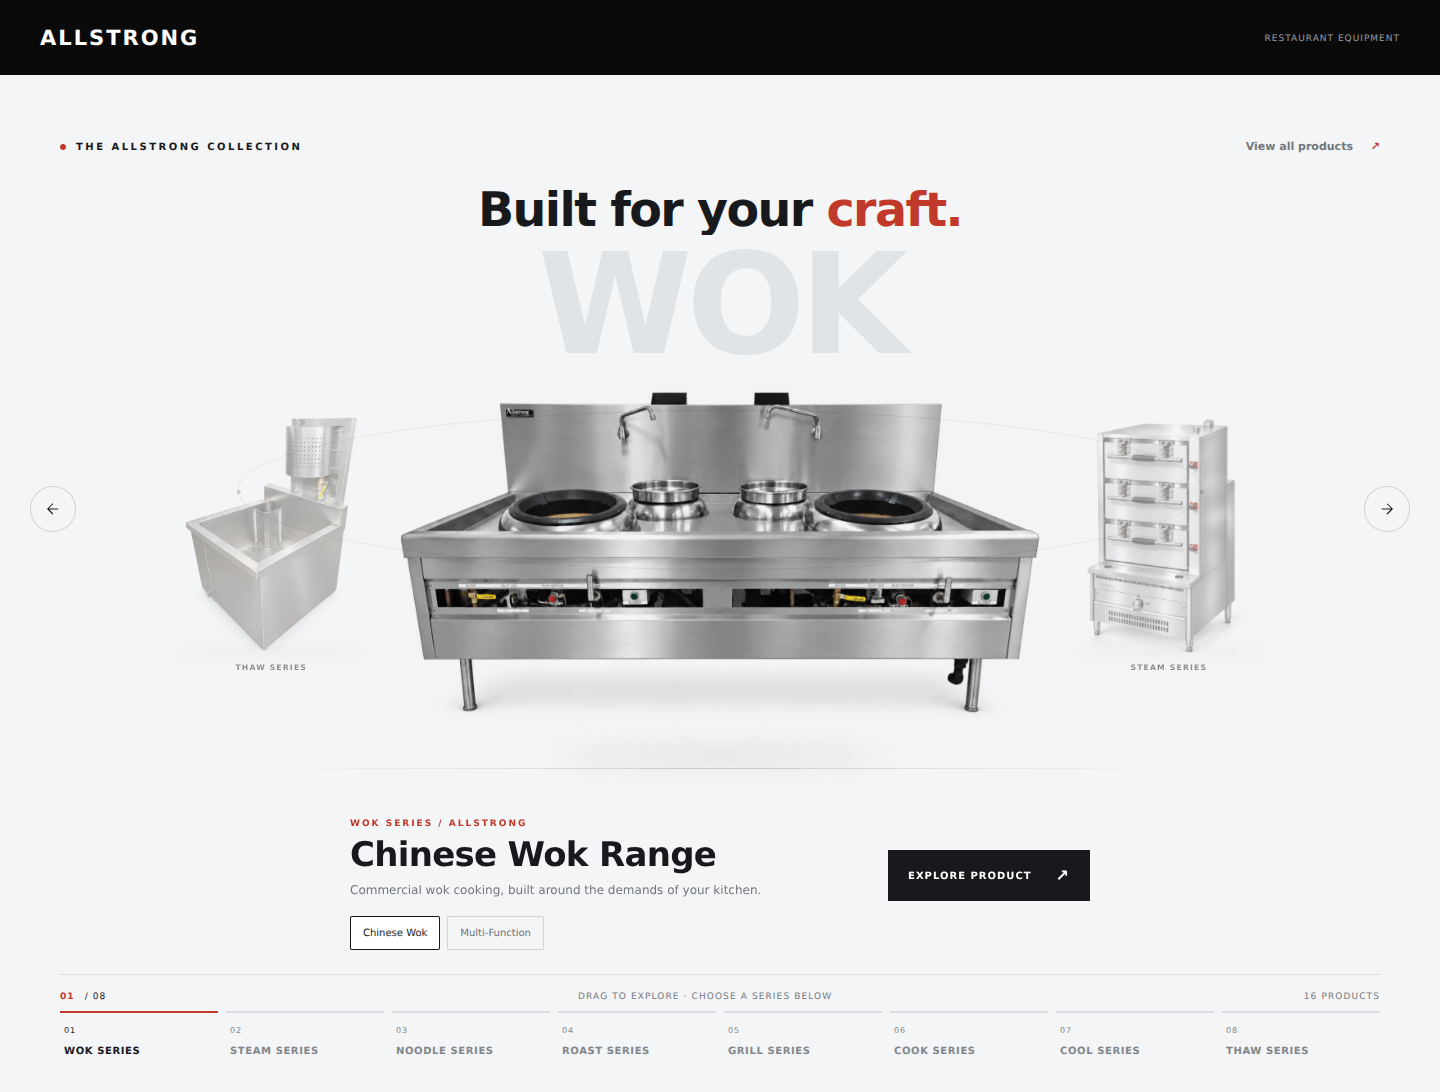
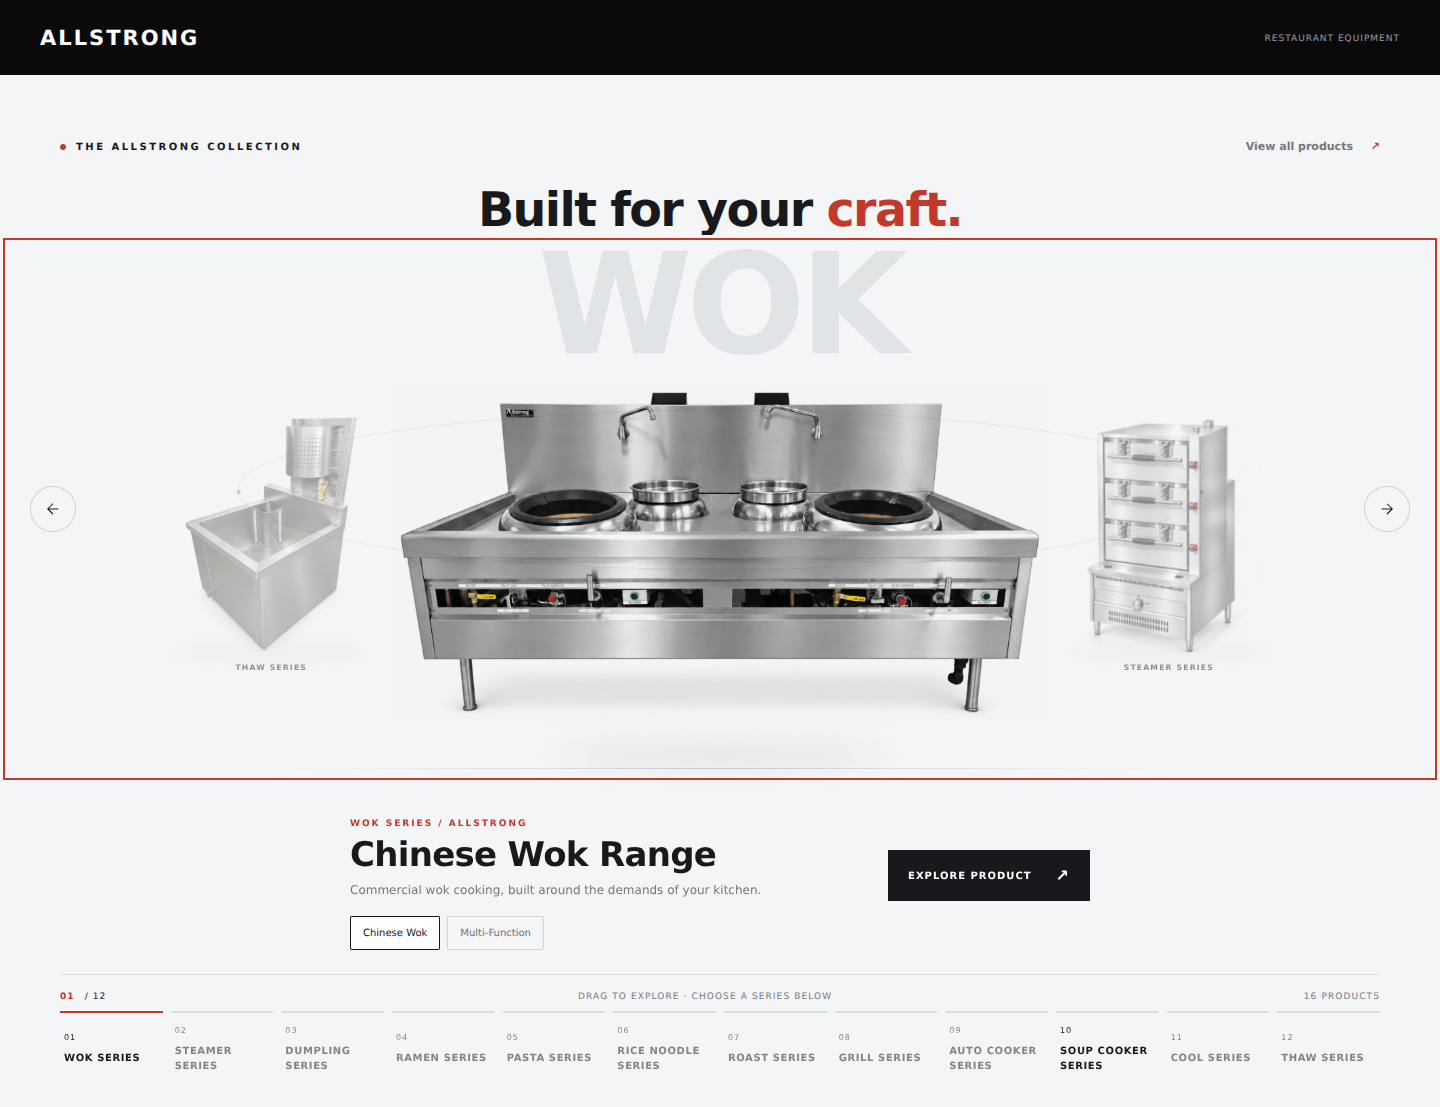
Separate equipment series and rename Auto and Soup Cookers

diff --git a/allstrong-website-final-v5/series-showcase.js b/allstrong-website-final-v5/series-showcase.js
@@ -8,14 +8,20 @@
       product('Chinese Wok Range','wok-range.webp','chinese-wok-range.html','Commercial wok cooking, built around the demands of your kitchen.','Chinese Wok'),
       product('Multi-Function Wok Range','multi-function-wok-range.webp','multi-function-wok-range.html','Explore the wok station at the heart of the Multi-Function range.','Multi-Function')
     ]},
-    {name:'Steam', word:'STEAM', products:[
-      product('Steamer Cabinet','steamer-cabinets.webp','steamer-cabinets.html','A dedicated steaming configuration for a commercial kitchen.','Steamer Cabinet'),
+    {name:'Steamer', word:'STEAM', products:[
+      product('Steamer Cabinet','steamer-cabinets.webp','steamer-cabinets.html','A dedicated steaming configuration for a commercial kitchen.','Steamer Cabinet')
+    ]},
+    {name:'Dumpling', word:'DUMPLING', products:[
       product('Dumpling Range — 4 Holes','dumpling-range-4.webp','dumpling-range-4.html','Explore the four-hole dumpling range configuration.','4-Hole Dumpling'),
       product('Dumpling Range — 7 Holes','dumpling-range-7.webp','dumpling-range-7.html','Explore the seven-hole dumpling range configuration.','7-Hole Dumpling')
     ]},
-    {name:'Noodle', word:'NOODLE', products:[
-      product('Ramen Range','ramen-range.webp','ramen-range.html','A purpose-built station for your ramen service.','Ramen'),
-      product('Pasta Cooker','noodle-pasta-broiler.webp','noodle-pasta-broiler.html','Explore a dedicated pasta cooking configuration.','Pasta'),
+    {name:'Ramen', word:'RAMEN', products:[
+      product('Ramen Range','ramen-range.webp','ramen-range.html','A purpose-built station for your ramen service.','Ramen')
+    ]},
+    {name:'Pasta', word:'PASTA', products:[
+      product('Pasta Cooker','noodle-pasta-broiler.webp','noodle-pasta-broiler.html','Explore a dedicated pasta cooking configuration.','Pasta')
+    ]},
+    {name:'Rice Noodle', word:'RICE NOODLE', products:[
       product('Rice Noodle Range','rice-noodle-range.webp','rice-noodle-range.html','A steaming station designed for rice noodle preparation.','Rice Noodle')
     ]},
     {name:'Roast', word:'ROAST', products:[
@@ -26,9 +32,11 @@
     {name:'Grill', word:'GRILL', products:[
       product('Mongolian BBQ Range','mongolian-bbq-range.webp','mongolian-bbq-range.html','A circular cooking surface for Mongolian barbecue service.')
     ]},
-    {name:'Cook', word:'COOK', products:[
-      product('Automatic Rotary Cooker','auto-cooker.webp','auto-cooker.html','Explore Allstrong automatic rotary cooking equipment.','Rotary Cooker'),
-      product('Kettle Cooker','kettle-cooker.webp','kettle-cooker.html','Explore the kettle cooking configuration.','Kettle Cooker')
+    {name:'Auto Cooker', word:'AUTO COOKER', products:[
+      product('Auto Cooker','auto-cooker.webp','auto-cooker.html','Explore Allstrong automatic cooking equipment.')
+    ]},
+    {name:'Soup Cooker', word:'SOUP COOKER', products:[
+      product('Soup Cooker','kettle-cooker.webp','kettle-cooker.html','Explore Allstrong soup cooking equipment.')
     ]},
     {name:'Cool', word:'COOL', products:[
       product('Air Cooler','air-cooler.webp','air-cooler.html','Explore the Allstrong air cooler cabinet.')
@@ -43,6 +51,9 @@
   const variants = root.querySelector('.ss-variants');
   const nav = root.querySelector('.ss-nav');
   const status = root.querySelector('.ss-live');
+  root.style.setProperty('--ss-series-count', series.length);
+  root.querySelector('.ss-total').textContent = String(series.length).padStart(2,'0');
+  root.querySelector('.ss-product-count').textContent = `${series.reduce((count,s)=>count+s.products.length,0)} Products`;
   const motion = window.matchMedia('(prefers-reduced-motion: reduce)');
   let selected = 0, variant = 0, pointer = null, suppressClick = false;
   const items = series.map((s,i) => {
@@ -81,7 +92,7 @@
       tabs[i].setAttribute('aria-pressed',i===selected?'true':'false');
     });
     if(word.textContent!==s.word) {
-      word.textContent=s.word; word.classList.remove('is-arriving'); void word.offsetWidth; word.classList.add('is-arriving');
+      word.textContent=s.word; word.dataset.long=String(s.word.length>7); word.classList.remove('is-arriving'); void word.offsetWidth; word.classList.add('is-arriving');
     }
     details.querySelector('.ss-category').textContent=`${s.name} Series / Allstrong`;
     details.querySelector('.ss-name').textContent=p.name;

diff --git a/allstrong-website-final-v5/series-showcase.css b/allstrong-website-final-v5/series-showcase.css
@@ -18,6 +18,7 @@
 .ss-deck.is-dragging { cursor: grabbing; }
 .ss-deck:focus-visible { outline: 2px solid var(--ss-red); outline-offset: -5px; }
 .ss-word { position: absolute; top: 0; left: 0; width: 100%; text-align: center; color: #e1e4e7; font-size: clamp(75px, 10vw, 140px); font-weight: 900; letter-spacing: -6px; line-height: 1; white-space: nowrap; pointer-events: none; z-index: -1; }
+.ss-word[data-long="true"] { font-size: clamp(48px, 7vw, 100px); letter-spacing: -4px; padding-top: 15px; }
 .ss-word.is-arriving { animation: ss-word-in .65s ease both; }
 .ss-guide { position: absolute; top: 32%; left: 50%; width: 67%; height: 160px; border: 1px solid #e3e5e7; border-radius: 50%; transform: translateX(-50%); pointer-events: none; z-index: -1; }
 .ss-guide::before, .ss-guide::after { content: ""; position: absolute; background: #c7cacf; width: 4px; height: 4px; border-radius: 50%; top: 50%; }
@@ -48,7 +49,7 @@
 .ss-bottom { border-top: 1px solid #d9dde1; }
 .ss-index { display: flex; gap: 8px; align-items: center; justify-content: space-between; padding: 16px 0 10px; color: var(--ss-muted); font-size: 9px; letter-spacing: 1.1px; text-transform: uppercase; }
 .ss-counter { color: var(--ss-ink); font-variant-numeric: tabular-nums; }.ss-counter strong { color: var(--ss-red); margin-right: 6px; }
-.ss-nav { display: grid; grid-template-columns: repeat(8,minmax(0,1fr)); gap: 8px; }
+.ss-nav { display: grid; grid-template-columns: repeat(var(--ss-series-count,12),minmax(0,1fr)); gap: 8px; }
 .ss-series-btn { position: relative; background: transparent; border: 0; padding: 13px 4px 5px; border-top: 2px solid #d9dde1; text-align: left; color: #81868c; font-family: inherit; cursor: pointer; transition: color .2s,border-color .2s; }
 .ss-series-btn small { display: block; font-size: 8px; letter-spacing: 1px; margin-bottom: 7px; }
 .ss-series-btn span { font-size: 10px; font-weight: 700; letter-spacing: .6px; text-transform: uppercase; }
@@ -64,7 +65,7 @@
   .ss-top,.ss-bottom { width: calc(100% - 40px); }.series-showcase { padding-top: 35px; }
   .ss-deck { height: 390px; }.ss-item { width: 62%; margin-left: -31%; padding-top: 88px; }
   .ss-item[data-position="-1"],.ss-item[data-position="1"] { transform: translateX(calc(var(--ss-offset) * 65%)) scale(.5); }
-  .ss-nav { overflow-x: auto; grid-template-columns: repeat(8,110px); padding-bottom: 6px; }
+  .ss-nav { overflow-x: auto; grid-template-columns: repeat(var(--ss-series-count,12),110px); padding-bottom: 6px; }
   .ss-word { font-size: 12vw; letter-spacing: -5px; top: 0; }.ss-arrow-prev { left: 12px; }.ss-arrow-next { right: 12px; }
 }
 @media (max-width: 600px) {
@@ -78,7 +79,8 @@
   .ss-details { width: calc(100% - 40px); grid-template-columns: 1fr; gap: 16px; min-height: 170px; align-items: start; }
   .ss-name { font-size: 25px; }.ss-description { font-size: 11px; }.ss-cta { justify-self: start; padding: 12px 16px; }
   .ss-variants { width: calc(100% - 40px); margin: 13px auto 20px; }.ss-variant { font-size: 9px; padding: 8px 9px; }
-  .ss-index { font-size: 8px; letter-spacing: .5px; }.ss-nav { grid-template-columns: repeat(8,95px); }
+  .ss-word[data-long="true"] { font-size: 11.5vw; letter-spacing: -2px; padding-top: 14px; }
+  .ss-index { font-size: 8px; letter-spacing: .5px; }.ss-nav { grid-template-columns: repeat(var(--ss-series-count,12),95px); }
   .ss-preview-brand { height: 60px; padding: 0 20px; }.ss-preview-brand a { font-size: 17px; }.ss-preview-brand span { font-size: 7px; }
 }
 @media (prefers-reduced-motion: reduce) {

diff --git a/allstrong-website-final-v5/cooking-equipment.html b/allstrong-website-final-v5/cooking-equipment.html
@@ -201,8 +201,8 @@
 <a href="air-cooler.html" class="cat-card reveal" data-category="cooling"><div class="cat-img-wrap"><div class="cat-img-inner" role="img" aria-label="Air Cooler" style="background-image:url('images/air-cooler.webp')"></div><div class="cat-card-cta">View Details →</div></div><div class="cat-info"><div class="cat-name">Air Cooler</div><div class="cat-desc">View product and request specifications</div></div></a>
 <a href="roaster-oven.html" class="cat-card reveal" data-category="roaster"><div class="cat-img-wrap"><div class="cat-img-inner" role="img" aria-label="Roaster Oven" style="background-image:url('images/roaster-oven.webp')"></div><div class="cat-card-cta">View Details →</div></div><div class="cat-info"><div class="cat-name">Roaster Oven</div><div class="cat-desc">View product and request specifications</div></div></a>
 <a href="roaster-oven-micro.html" class="cat-card reveal" data-category="roaster"><div class="cat-img-wrap"><div class="cat-img-inner" role="img" aria-label="Roaster Oven with Microwave" style="background-image:url('images/roaster-oven-micro.webp')"></div><div class="cat-card-cta">View Details →</div></div><div class="cat-info"><div class="cat-name">Roaster Oven with Microwave</div><div class="cat-desc">View product and request specifications</div></div></a>
-<a href="auto-cooker.html" class="cat-card reveal" data-category="cooker"><div class="cat-img-wrap"><div class="cat-img-inner" role="img" aria-label="Automatic Rotary Cooker" style="background-image:url('images/auto-cooker.webp')"></div><div class="cat-card-cta">View Details →</div></div><div class="cat-info"><div class="cat-name">Automatic Rotary Cooker</div><div class="cat-desc">View product and request specifications</div></div></a>
-<a href="kettle-cooker.html" class="cat-card reveal" data-category="cooker"><div class="cat-img-wrap"><div class="cat-img-inner" role="img" aria-label="Kettle Cooker" style="background-image:url('images/kettle-cooker.webp')"></div><div class="cat-card-cta">View Details →</div></div><div class="cat-info"><div class="cat-name">Kettle Cooker</div><div class="cat-desc">View product and request specifications</div></div></a>
+<a href="auto-cooker.html" class="cat-card reveal" data-category="cooker"><div class="cat-img-wrap"><div class="cat-img-inner" role="img" aria-label="Auto Cooker" style="background-image:url('images/auto-cooker.webp')"></div><div class="cat-card-cta">View Details →</div></div><div class="cat-info"><div class="cat-name">Auto Cooker</div><div class="cat-desc">View product and request specifications</div></div></a>
+<a href="kettle-cooker.html" class="cat-card reveal" data-category="cooker"><div class="cat-img-wrap"><div class="cat-img-inner" role="img" aria-label="Soup Cooker" style="background-image:url('images/kettle-cooker.webp')"></div><div class="cat-card-cta">View Details →</div></div><div class="cat-info"><div class="cat-name">Soup Cooker</div><div class="cat-desc">View product and request specifications</div></div></a>
     </div>
   </div>
 </section>

diff --git a/allstrong-website-final-v5/auto-cooker.html b/allstrong-website-final-v5/auto-cooker.html
@@ -1,1 +1,1 @@
-<!DOCTYPE html><html lang="en"><head><meta charset="UTF-8"><meta name="viewport" content="width=device-width, initial-scale=1"><title>Automatic Rotary Cooker | Allstrong</title><link rel="stylesheet" href="style.css"></head><body><div id="site-header"></div><script src="includes.js"></script><main class="new-product"><a href="cooking-equipment.html">← All Cooking Equipment</a><div class="new-product-layout"><img src="images/auto-cooker.webp" alt="Allstrong Automatic Rotary Cooker"><div><p class="new-product-eyebrow">Allstrong Restaurant Equipment</p><h1>Automatic Rotary Cooker</h1><p>Contact Allstrong for available configurations, dimensions, and specifications.</p><a class="new-product-cta" href="custom-quote.html">Request a Quote</a></div></div></main><div id="site-footer"></div><script src="script.js"></script></body></html>
+<!DOCTYPE html><html lang="en"><head><meta charset="UTF-8"><meta name="viewport" content="width=device-width, initial-scale=1"><title>Auto Cooker | Allstrong</title><link rel="stylesheet" href="style.css"></head><body><div id="site-header"></div><script src="includes.js"></script><main class="new-product"><a href="cooking-equipment.html">← All Cooking Equipment</a><div class="new-product-layout"><img src="images/auto-cooker.webp" alt="Allstrong Auto Cooker"><div><p class="new-product-eyebrow">Allstrong Restaurant Equipment</p><h1>Auto Cooker</h1><p>Contact Allstrong for available configurations, dimensions, and specifications.</p><a class="new-product-cta" href="custom-quote.html">Request a Quote</a></div></div></main><div id="site-footer"></div><script src="script.js"></script></body></html>

diff --git a/allstrong-website-final-v5/kettle-cooker.html b/allstrong-website-final-v5/kettle-cooker.html
@@ -1,1 +1,1 @@
-<!DOCTYPE html><html lang="en"><head><meta charset="UTF-8"><meta name="viewport" content="width=device-width, initial-scale=1"><title>Kettle Cooker | Allstrong</title><link rel="stylesheet" href="style.css"></head><body><div id="site-header"></div><script src="includes.js"></script><main class="new-product"><a href="cooking-equipment.html">← All Cooking Equipment</a><div class="new-product-layout"><img src="images/kettle-cooker.webp" alt="Allstrong Kettle Cooker"><div><p class="new-product-eyebrow">Allstrong Restaurant Equipment</p><h1>Kettle Cooker</h1><p>Contact Allstrong for available configurations, dimensions, and specifications.</p><a class="new-product-cta" href="custom-quote.html">Request a Quote</a></div></div></main><div id="site-footer"></div><script src="script.js"></script></body></html>
+<!DOCTYPE html><html lang="en"><head><meta charset="UTF-8"><meta name="viewport" content="width=device-width, initial-scale=1"><title>Soup Cooker | Allstrong</title><link rel="stylesheet" href="style.css"></head><body><div id="site-header"></div><script src="includes.js"></script><main class="new-product"><a href="cooking-equipment.html">← All Cooking Equipment</a><div class="new-product-layout"><img src="images/kettle-cooker.webp" alt="Allstrong Soup Cooker"><div><p class="new-product-eyebrow">Allstrong Restaurant Equipment</p><h1>Soup Cooker</h1><p>Contact Allstrong for available configurations, dimensions, and specifications.</p><a class="new-product-cta" href="custom-quote.html">Request a Quote</a></div></div></main><div id="site-footer"></div><script src="script.js"></script></body></html>

diff --git a/allstrong-website-final-v5/index.html b/allstrong-website-final-v5/index.html
@@ -120,7 +120,7 @@
   </div>
   <div class="ss-variants" role="group" aria-label="Products in this series"></div>
   <div class="ss-bottom">
-    <div class="ss-index"><span class="ss-counter"><strong class="ss-current">01</strong> / 08</span><span>Drag to explore · Choose a series below</span><span>16 Products</span></div>
+    <div class="ss-index"><span class="ss-counter"><strong class="ss-current">01</strong> / <span class="ss-total">12</span></span><span>Drag to explore · Choose a series below</span><span class="ss-product-count">16 Products</span></div>
     <nav class="ss-nav" aria-label="Product series"></nav>
   </div>
   <p class="ss-live" role="status" aria-live="polite" aria-atomic="true"></p>

diff --git a/allstrong-website-final-v5/series-showcase.html b/allstrong-website-final-v5/series-showcase.html
@@ -20,7 +20,7 @@
   </div>
   <div class="ss-variants" role="group" aria-label="Products in this series"></div>
   <div class="ss-bottom">
-    <div class="ss-index"><span class="ss-counter"><strong class="ss-current">01</strong> / 08</span><span>Drag to explore · Choose a series below</span><span>16 Products</span></div>
+    <div class="ss-index"><span class="ss-counter"><strong class="ss-current">01</strong> / <span class="ss-total">12</span></span><span>Drag to explore · Choose a series below</span><span class="ss-product-count">16 Products</span></div>
     <nav class="ss-nav" aria-label="Product series"></nav>
   </div>
   <p class="ss-live" role="status" aria-live="polite" aria-atomic="true"></p>
